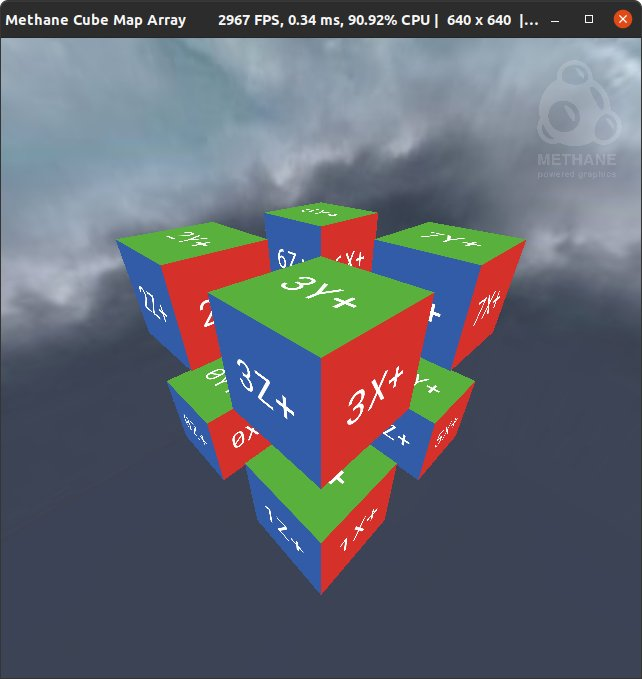
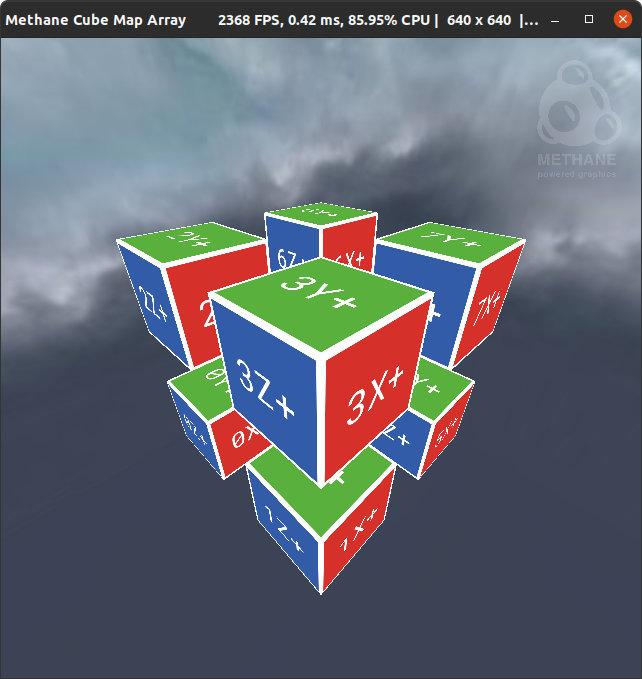
Add ParallelRendering screenshots and update CubeMapArray screenshots

diff --git a/README.md b/README.md
@@ -64,14 +64,15 @@ which make modern graphics programming easy and convenient in a platform and API
 Start learning Methane Graphics API with [Hello Triangle](/Apps/Tutorials/01-HelloTriangle) tutorial documentation
 and continue with others.
 
-| <pre><b>Name / Link</b></pre>                         | <pre><b>Screenshot</b></pre>                                                                             | <pre><b>Description</b>                                         </pre>                            |
-|-------------------------------------------------------|----------------------------------------------------------------------------------------------------------|---------------------------------------------------------------------------------------------------|
-| 1. [Hello Triangle](/Apps/Tutorials/01-HelloTriangle) | ![Hello Triangle on Windows](/Apps/Tutorials/01-HelloTriangle/Screenshots/HelloTriangleWinDirectX12.jpg) | Colored triangle rendering in 100 lines of code.                                                  |
-| 2. [Hello Cube](/Apps/Tutorials/02-HelloCube)         | ![Hello Cube on Windows](/Apps/Tutorials/02-HelloCube/Screenshots/HelloCubeWinDirectX12.jpg)             | Colored cube rendering in 200 lines of code with vertex and index buffers.                        |
-| 3. [Textured Cube](/Apps/Tutorials/03-TexturedCube)   | ![Textured Cube on Windows](/Apps/Tutorials/03-TexturedCube/Screenshots/TexturedCubeWinDirectX12.jpg)    | Textured cube introduces buffers, textures and samplers usage with Phong shading.                 |
-| 4. [Shadow Cube](/Apps/Tutorials/04-ShadowCube)       | ![Shadow Cube on Windows](/Apps/Tutorials/04-ShadowCube/Screenshots/ShadowCubeWinDirectX12.jpg)          | Shadow cube introduces multi-pass rendering with render passes.                                   |
-| 5. [Typography](/Apps/Tutorials/05-Typography)        | ![Typography on Windows](/Apps/Tutorials/05-Typography/Screenshots/TypographyWinDirectX12.jpg)           | Typography demonstrates animated text rendering with dynamic font atlas updates using Methane UI. |
-| 6. [Cube-Map Array](/Apps/Tutorials/06-CubeMapArray)  | ![Cube-Map Array on Windows](/Apps/Tutorials/06-CubeMapArray/Screenshots/CubeMapArrayWinDirectX12.jpg)             | Cube-map array texturing is demonstrated in this tutorial.                                        |
+| <pre><b>Name / Link</b></pre>                                 | <pre><b>Screenshot</b></pre>                                                                                         | <pre><b>Description</b>                                         </pre>                                        |
+|---------------------------------------------------------------|----------------------------------------------------------------------------------------------------------------------|---------------------------------------------------------------------------------------------------------------|
+| 1. [Hello Triangle](/Apps/Tutorials/01-HelloTriangle)         | ![Hello Triangle on Windows](/Apps/Tutorials/01-HelloTriangle/Screenshots/HelloTriangleWinDirectX12.jpg)             | Colored triangle rendering in 100 lines of code.                                                              |
+| 2. [Hello Cube](/Apps/Tutorials/02-HelloCube)                 | ![Hello Cube on Windows](/Apps/Tutorials/02-HelloCube/Screenshots/HelloCubeWinDirectX12.jpg)                         | Colored cube rendering in 200 lines of code with vertex and index buffers.                                    |
+| 3. [Textured Cube](/Apps/Tutorials/03-TexturedCube)           | ![Textured Cube on Windows](/Apps/Tutorials/03-TexturedCube/Screenshots/TexturedCubeWinDirectX12.jpg)                | Textured cube introduces buffers, textures and samplers usage with Phong shading.                             |
+| 4. [Shadow Cube](/Apps/Tutorials/04-ShadowCube)               | ![Shadow Cube on Windows](/Apps/Tutorials/04-ShadowCube/Screenshots/ShadowCubeWinDirectX12.jpg)                      | Shadow cube introduces multi-pass rendering with render passes.                                               |
+| 5. [Typography](/Apps/Tutorials/05-Typography)                | ![Typography on Windows](/Apps/Tutorials/05-Typography/Screenshots/TypographyWinDirectX12.jpg)                       | Typography demonstrates animated text rendering with dynamic font atlas updates using Methane UI.             |
+| 6. [Cube-Map Array](/Apps/Tutorials/06-CubeMapArray)          | ![Cube-Map Array on Windows](/Apps/Tutorials/06-CubeMapArray/Screenshots/CubeMapArrayWinDirectX12.jpg)               | Cube-map array texturing along with sky-box rendering is demonstrated in this tutorial.                       |
+| 7. [Parallel Rendering](/Apps/Tutorials/07-ParallelRendering) | ![Parallel Rendering on Windows](/Apps/Tutorials/07-ParallelRendering/Screenshots/ParallelRenderingWinDirectX12.jpg) | Parallel rendering of the textured cube instances to the single render pass is demonstrated in this tutorial. |
 
 ### Samples
 

diff --git a/Apps/Tutorials/README.md b/Apps/Tutorials/README.md
@@ -1,11 +1,11 @@
 # Methane Tutorials
 
-| <pre><b>Name / Link</b></pre>                                 | <pre><b>Screenshot</b></pre>                                                                         | <pre><b>Description</b>                                   </pre>                                  |
-|---------------------------------------------------------------|------------------------------------------------------------------------------------------------------|---------------------------------------------------------------------------------------------------|
-| 1. [Hello Triangle](/Apps/Tutorials/01-HelloTriangle)         | ![Hello Triangle on Windows](01-HelloTriangle/Screenshots/HelloTriangleWinDirectX12.jpg)             | Colored triangle rendering in 130 lines of code.                                                  |
-| 2. [Hello Cube](/Apps/Tutorials/02-HelloCube)                 | ![Hello Cube on Windows](02-HelloCube/Screenshots/HelloCubeWinDirectX12.jpg)                         | Colored cube rendering in 220 lines of code.                                                      |
-| 3. [Textured Cube](/Apps/Tutorials/03-TexturedCube)           | ![Textured Cube on Windows](03-TexturedCube/Screenshots/TexturedCubeWinDirectX12.jpg)                | Textured cube introduces buffers and textures usage along with program bindings.                  |
-| 4. [Shadow Cube](/Apps/Tutorials/04-ShadowCube)               | ![Shadow Cube on Windows](04-ShadowCube/Screenshots/ShadowCubeWinDirectX12.jpg)                      | Shadow cube introduces multi-pass rendering with render passes.                                   |
-| 5. [Typography](/Apps/Tutorials/05-Typography)                | ![Typography on Windows](05-Typography/Screenshots/TypographyWinDirectX12.jpg)                       | Typography demonstrates animated text rendering with dynamic font atlas updates using Methane UI. |
-| 6. [Cube-Map Array](/Apps/Tutorials/06-CubeMapArray)          | ![Cube-Map Array on Windows](06-CubeMapArray/Screenshots/CubeMapArrayWinDirectX12.jpg)               | Cube-map array texturing is demonstrated in this tutorial.                                        |
-| 7. [Parallel Rendering](/Apps/Tutorials/07-ParallelRendering) | ![Parallel Rendering on Windows](07-ParallelRendering/Screenshots/ParallelRenderingWinDirectX12.jpg) | Parallel rendering to single render pass is demonstrated in this tutorial.                        |
+| <pre><b>Name / Link</b></pre>                                 | <pre><b>Screenshot</b></pre>                                                                         | <pre><b>Description</b>                                   </pre>                                              |
+|---------------------------------------------------------------|------------------------------------------------------------------------------------------------------|---------------------------------------------------------------------------------------------------------------|
+| 1. [Hello Triangle](/Apps/Tutorials/01-HelloTriangle)         | ![Hello Triangle on Windows](01-HelloTriangle/Screenshots/HelloTriangleWinDirectX12.jpg)             | Colored triangle rendering in 130 lines of code.                                                              |
+| 2. [Hello Cube](/Apps/Tutorials/02-HelloCube)                 | ![Hello Cube on Windows](02-HelloCube/Screenshots/HelloCubeWinDirectX12.jpg)                         | Colored cube rendering in 220 lines of code.                                                                  |
+| 3. [Textured Cube](/Apps/Tutorials/03-TexturedCube)           | ![Textured Cube on Windows](03-TexturedCube/Screenshots/TexturedCubeWinDirectX12.jpg)                | Textured cube introduces buffers and textures usage along with program bindings.                              |
+| 4. [Shadow Cube](/Apps/Tutorials/04-ShadowCube)               | ![Shadow Cube on Windows](04-ShadowCube/Screenshots/ShadowCubeWinDirectX12.jpg)                      | Shadow cube introduces multi-pass rendering with render passes.                                               |
+| 5. [Typography](/Apps/Tutorials/05-Typography)                | ![Typography on Windows](05-Typography/Screenshots/TypographyWinDirectX12.jpg)                       | Typography demonstrates animated text rendering with dynamic font atlas updates using Methane UI.             |
+| 6. [Cube-Map Array](/Apps/Tutorials/06-CubeMapArray)          | ![Cube-Map Array on Windows](06-CubeMapArray/Screenshots/CubeMapArrayWinDirectX12.jpg)               | Cube-map array texturing along with sky-box rendering is demonstrated in this tutorial.                       |
+| 7. [Parallel Rendering](/Apps/Tutorials/07-ParallelRendering) | ![Parallel Rendering on Windows](07-ParallelRendering/Screenshots/ParallelRenderingWinDirectX12.jpg) | Parallel rendering of the textured cube instances to the single render pass is demonstrated in this tutorial. |

diff --git a/Apps/Tutorials/07-ParallelRendering/README.md b/Apps/Tutorials/07-ParallelRendering/README.md
@@ -4,7 +4,7 @@
 | -------------------- | ------------- |-----------------------------------------------------------------|
 | ![ParallelRendering on Windows](Screenshots/ParallelRenderingWinDirectX12.jpg) | ![ParallelRendering on MacOS](Screenshots/ParallelRenderingMacMetal.jpg) | ![ParallelRendering on Linux](Screenshots/ParallelRenderingLinVulkan.jpg) |
 
-This tutorial demonstrates multi-threaded rendering with 'ParallelRenderCommandList' with Methane Kit:
+This tutorial demonstrates multi-threaded rendering with 'ParallelRenderCommandList' to the single render pass with Methane Kit:
   - [ParallelRenderingApp.h](ParallelRenderingApp.h)
   - [ParallelRenderingApp.cpp](ParallelRenderingApp.cpp)
   - [Shaders/ParallelRendering.hlsl](Shaders/ParallelRendering.hlsl)
